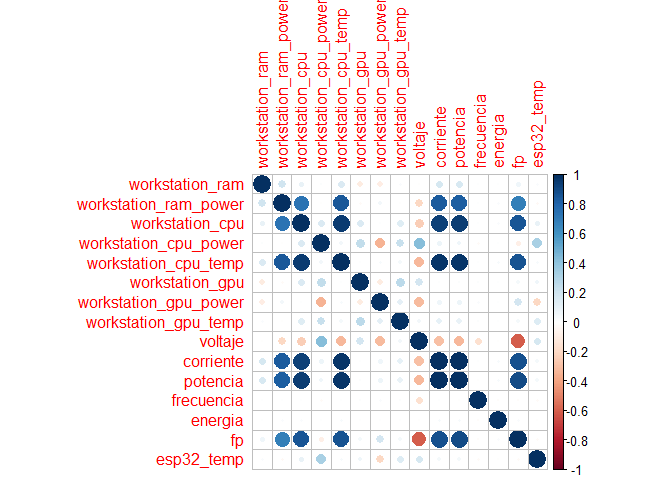
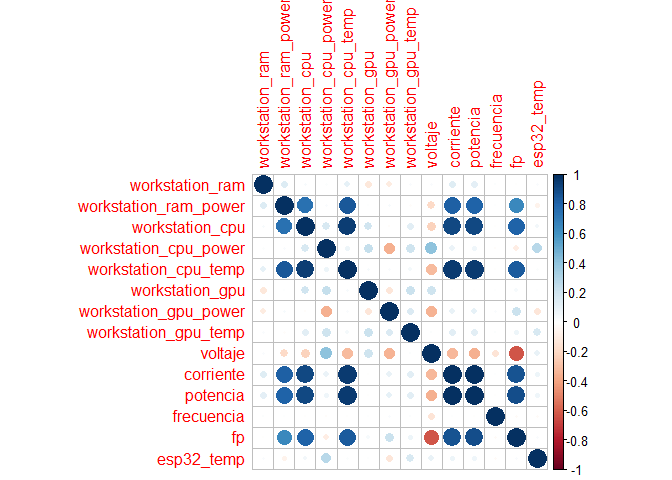
Se realizo la normalizacion , se elimino de la matriz de correlacion la energia que sera la variable dependiente a predecir

Changed region(s): [[0.0938, 0.0, 0.8125, 0.9688]]

diff --git a/Proyecto.md b/Proyecto.md
@@ -684,35 +684,37 @@ variable energía.
     ## 4           0.08944659               0             0.6557377
     ## 5           0.09781210               0             0.6448087
     ## 6           0.13899614               0             0.6557377
-    ##   workstation_gpu_temp   voltaje  corriente  potencia frecuencia energia
-    ## 1           0.10386967 0.4052632 0.07749343 0.1060575    0.60625      NA
-    ## 2           0.10694258 0.4052632 0.10262087 0.1320770    0.73750      NA
-    ## 3           0.11058503 0.3684211 0.10818186 0.1326956    0.72000      NA
-    ## 4           0.11384338 0.3807018 0.09397044 0.1202425    0.74625      NA
-    ## 5           0.11042609 0.3929825 0.10303280 0.1292318    0.68500      NA
-    ## 6           0.09772385 0.3929825 0.09870758 0.1258092    0.62375      NA
-    ##          fp esp32_temp
-    ## 1 0.3750000  0.7595292
-    ## 2 0.4062500  0.7331840
-    ## 3 0.3839286  0.6799329
-    ## 4 0.3883929  0.6804934
-    ## 5 0.3794643  0.8133409
-    ## 6 0.3928571  0.8402467
+    ##   workstation_gpu_temp   voltaje  corriente  potencia frecuencia        fp
+    ## 1           0.10386967 0.4052632 0.07749343 0.1060575    0.60625 0.3750000
+    ## 2           0.10694258 0.4052632 0.10262087 0.1320770    0.73750 0.4062500
+    ## 3           0.11058503 0.3684211 0.10818186 0.1326956    0.72000 0.3839286
+    ## 4           0.11384338 0.3807018 0.09397044 0.1202425    0.74625 0.3883929
+    ## 5           0.11042609 0.3929825 0.10303280 0.1292318    0.68500 0.3794643
+    ## 6           0.09772385 0.3929825 0.09870758 0.1258092    0.62375 0.3928571
+    ##   esp32_temp
+    ## 1  0.7595292
+    ## 2  0.7331840
+    ## 3  0.6799329
+    ## 4  0.6804934
+    ## 5  0.8133409
+    ## 6  0.8402467
 
 ### Energia ~ Frecuencia
 
     ## 
     ## Call:
-    ## lm(formula = energia ~ frecuencia, data = variables_interes_interpoladas)
+    ## lm(formula = energia ~ frecuencia, data = variables_interes_interpoladas_normalizadas)
     ## 
     ## Residuals:
     ##       Min        1Q    Median        3Q       Max 
     ## -0.002278 -0.002025 -0.001962  0.001216  0.008052 
     ## 
     ## Coefficients:
-    ##              Estimate Std. Error t value Pr(>|t|)
-    ## (Intercept)  0.127916   0.079302   1.613    0.107
-    ## frecuencia  -0.002099   0.001322  -1.588    0.112
+    ##               Estimate Std. Error t value Pr(>|t|)    
+    ## (Intercept)  0.0022783  0.0001637  13.919   <2e-16 ***
+    ## frecuencia  -0.0003999  0.0002519  -1.588    0.112    
+    ## ---
+    ## Signif. codes:  0 '***' 0.001 '**' 0.01 '*' 0.05 '.' 0.1 ' ' 1
     ## 
     ## Residual standard error: 0.002954 on 9464 degrees of freedom
     ##   (614 observations deleted due to missingness)
@@ -723,7 +725,7 @@ variable energía.
 
     ## 
     ## Call:
-    ## lm(formula = energia ~ workstation_ram, data = variables_interes_interpoladas)
+    ## lm(formula = energia ~ workstation_ram, data = variables_interes_interpoladas_normalizadas)
     ## 
     ## Residuals:
     ##       Min        1Q    Median        3Q       Max 
@@ -731,8 +733,8 @@ variable energía.
     ## 
     ## Coefficients:
     ##                  Estimate Std. Error t value Pr(>|t|)    
-    ## (Intercept)     1.791e-03  4.447e-04   4.027 5.69e-05 ***
-    ## workstation_ram 4.341e-06  8.299e-06   0.523    0.601    
+    ## (Intercept)     1.986e-03  7.683e-05  25.851   <2e-16 ***
+    ## workstation_ram 9.028e-05  1.726e-04   0.523    0.601    
     ## ---
     ## Signif. codes:  0 '***' 0.001 '**' 0.01 '*' 0.05 '.' 0.1 ' ' 1
     ## 
@@ -745,7 +747,7 @@ variable energía.
 
     ## 
     ## Call:
-    ## lm(formula = energia ~ workstation_ram_power, data = variables_interes_interpoladas)
+    ## lm(formula = energia ~ workstation_ram_power, data = variables_interes_interpoladas_normalizadas)
     ## 
     ## Residuals:
     ##       Min        1Q    Median        3Q       Max 
@@ -753,8 +755,8 @@ variable energía.
     ## 
     ## Coefficients:
     ##                        Estimate Std. Error t value Pr(>|t|)    
-    ## (Intercept)           1.511e-03  2.102e-04   7.189 7.02e-13 ***
-    ## workstation_ram_power 4.836e-05  1.965e-05   2.461   0.0139 *  
+    ## (Intercept)           1.855e-03  7.458e-05  24.876   <2e-16 ***
+    ## workstation_ram_power 4.877e-04  1.981e-04   2.461   0.0139 *  
     ## ---
     ## Signif. codes:  0 '***' 0.001 '**' 0.01 '*' 0.05 '.' 0.1 ' ' 1
     ## 
@@ -767,7 +769,7 @@ variable energía.
 
     ## 
     ## Call:
-    ## lm(formula = energia ~ workstation_cpu, data = variables_interes_interpoladas)
+    ## lm(formula = energia ~ workstation_cpu, data = variables_interes_interpoladas_normalizadas)
     ## 
     ## Residuals:
     ##       Min        1Q    Median        3Q       Max 
@@ -775,8 +777,8 @@ variable energía.
     ## 
     ## Coefficients:
     ##                  Estimate Std. Error t value Pr(>|t|)    
-    ## (Intercept)     1.685e-03  1.245e-04  13.539  < 2e-16 ***
-    ## workstation_cpu 2.860e-05  1.023e-05   2.796  0.00519 ** 
+    ## (Intercept)     1.911e-03  5.022e-05  38.051  < 2e-16 ***
+    ## workstation_cpu 5.484e-04  1.962e-04   2.796  0.00519 ** 
     ## ---
     ## Signif. codes:  0 '***' 0.001 '**' 0.01 '*' 0.05 '.' 0.1 ' ' 1
     ## 
@@ -789,16 +791,18 @@ variable energía.
 
     ## 
     ## Call:
-    ## lm(formula = energia ~ workstation_cpu_power, data = variables_interes_interpoladas)
+    ## lm(formula = energia ~ workstation_cpu_power, data = variables_interes_interpoladas_normalizadas)
     ## 
     ## Residuals:
     ##       Min        1Q    Median        3Q       Max 
     ## -0.002032 -0.002025 -0.002015  0.001193  0.007990 
     ## 
     ## Coefficients:
-    ##                         Estimate Std. Error t value Pr(>|t|)
-    ## (Intercept)           -0.0036469  0.0239722  -0.152    0.879
-    ## workstation_cpu_power  0.0001312  0.0005548   0.237    0.813
+    ##                        Estimate Std. Error t value Pr(>|t|)    
+    ## (Intercept)           2.006e-03  7.844e-05  25.571   <2e-16 ***
+    ## workstation_cpu_power 2.624e-05  1.110e-04   0.237    0.813    
+    ## ---
+    ## Signif. codes:  0 '***' 0.001 '**' 0.01 '*' 0.05 '.' 0.1 ' ' 1
     ## 
     ## Residual standard error: 0.002954 on 9464 degrees of freedom
     ##   (614 observations deleted due to missingness)
@@ -809,7 +813,7 @@ variable energía.
 
     ## 
     ## Call:
-    ## lm(formula = energia ~ workstation_cpu_temp, data = variables_interes_interpoladas)
+    ## lm(formula = energia ~ workstation_cpu_temp, data = variables_interes_interpoladas_normalizadas)
     ## 
     ## Residuals:
     ##       Min        1Q    Median        3Q       Max 
@@ -817,8 +821,8 @@ variable energía.
     ## 
     ## Coefficients:
     ##                       Estimate Std. Error t value Pr(>|t|)    
-    ## (Intercept)          1.109e-03  3.123e-04   3.552 0.000384 ***
-    ## workstation_cpu_temp 2.583e-05  8.783e-06   2.941 0.003284 ** 
+    ## (Intercept)          0.0018839  0.0000562  33.523  < 2e-16 ***
+    ## workstation_cpu_temp 0.0006689  0.0002275   2.941  0.00328 ** 
     ## ---
     ## Signif. codes:  0 '***' 0.001 '**' 0.01 '*' 0.05 '.' 0.1 ' ' 1
     ## 
@@ -831,7 +835,7 @@ variable energía.
 
     ## 
     ## Call:
-    ## lm(formula = energia ~ workstation_gpu, data = variables_interes_interpoladas)
+    ## lm(formula = energia ~ workstation_gpu, data = variables_interes_interpoladas_normalizadas)
     ## 
     ## Residuals:
     ##       Min        1Q    Median        3Q       Max 
@@ -840,7 +844,7 @@ variable energía.
     ## Coefficients:
     ##                  Estimate Std. Error t value Pr(>|t|)    
     ## (Intercept)     2.021e-03  3.239e-05  62.396   <2e-16 ***
-    ## workstation_gpu 3.519e-06  2.371e-05   0.148    0.882    
+    ## workstation_gpu 7.354e-05  4.956e-04   0.148    0.882    
     ## ---
     ## Signif. codes:  0 '***' 0.001 '**' 0.01 '*' 0.05 '.' 0.1 ' ' 1
     ## 
@@ -853,16 +857,18 @@ variable energía.
 
     ## 
     ## Call:
-    ## lm(formula = energia ~ workstation_gpu_power, data = variables_interes_interpoladas)
+    ## lm(formula = energia ~ workstation_gpu_power, data = variables_interes_interpoladas_normalizadas)
     ## 
     ## Residuals:
     ##       Min        1Q    Median        3Q       Max 
     ## -0.002041 -0.002027 -0.002015  0.001187  0.007990 
     ## 
     ## Coefficients:
-    ##                        Estimate Std. Error t value Pr(>|t|)
-    ## (Intercept)           1.582e-03  2.452e-03   0.645    0.519
-    ## workstation_gpu_power 1.239e-05  6.885e-05   0.180    0.857
+    ##                        Estimate Std. Error t value Pr(>|t|)    
+    ## (Intercept)           0.0020030  0.0001150   17.41   <2e-16 ***
+    ## workstation_gpu_power 0.0000378  0.0002100    0.18    0.857    
+    ## ---
+    ## Signif. codes:  0 '***' 0.001 '**' 0.01 '*' 0.05 '.' 0.1 ' ' 1
     ## 
     ## Residual standard error: 0.002954 on 9464 degrees of freedom
     ##   (614 observations deleted due to missingness)
@@ -873,16 +879,18 @@ variable energía.
 
     ## 
     ## Call:
-    ## lm(formula = energia ~ workstation_gpu_temp, data = variables_interes_interpoladas)
+    ## lm(formula = energia ~ workstation_gpu_temp, data = variables_interes_interpoladas_normalizadas)
     ## 
     ## Residuals:
     ##       Min        1Q    Median        3Q       Max 
     ## -0.002093 -0.002023 -0.002021  0.001187  0.007984 
     ## 
     ## Coefficients:
-    ##                       Estimate Std. Error t value Pr(>|t|)
-    ## (Intercept)          1.934e-03  1.271e-03   1.522    0.128
-    ## workstation_gpu_temp 6.151e-06  8.760e-05   0.070    0.944
+    ##                       Estimate Std. Error t value Pr(>|t|)    
+    ## (Intercept)          0.0020160  0.0001036   19.46   <2e-16 ***
+    ## workstation_gpu_temp 0.0000774  0.0011023    0.07    0.944    
+    ## ---
+    ## Signif. codes:  0 '***' 0.001 '**' 0.01 '*' 0.05 '.' 0.1 ' ' 1
     ## 
     ## Residual standard error: 0.002954 on 9464 degrees of freedom
     ##   (614 observations deleted due to missingness)
@@ -893,16 +901,18 @@ variable energía.
 
     ## 
     ## Call:
-    ## lm(formula = energia ~ voltaje, data = variables_interes_interpoladas)
+    ## lm(formula = energia ~ voltaje, data = variables_interes_interpoladas_normalizadas)
     ## 
     ## Residuals:
     ##       Min        1Q    Median        3Q       Max 
     ## -0.002065 -0.002028 -0.001992  0.001190  0.008032 
     ## 
     ## Coefficients:
-    ##               Estimate Std. Error t value Pr(>|t|)
-    ## (Intercept)  0.0458521  0.0830848   0.552    0.581
-    ## voltaje     -0.0003670  0.0006958  -0.528    0.598
+    ##               Estimate Std. Error t value Pr(>|t|)    
+    ## (Intercept)  2.066e-03  8.688e-05  23.780   <2e-16 ***
+    ## voltaje     -9.962e-05  1.889e-04  -0.528    0.598    
+    ## ---
+    ## Signif. codes:  0 '***' 0.001 '**' 0.01 '*' 0.05 '.' 0.1 ' ' 1
     ## 
     ## Residual standard error: 0.002954 on 9464 degrees of freedom
     ##   (614 observations deleted due to missingness)
@@ -913,16 +923,16 @@ variable energía.
 
     ## 
     ## Call:
-    ## lm(formula = energia ~ corriente, data = variables_interes_interpoladas)
+    ## lm(formula = energia ~ corriente, data = variables_interes_interpoladas_normalizadas)
     ## 
     ## Residuals:
     ##       Min        1Q    Median        3Q       Max 
     ## -0.002585 -0.001985 -0.001967  0.001192  0.008050 
     ## 
     ## Coefficients:
-    ##               Estimate Std. Error t value Pr(>|t|)   
-    ## (Intercept) -0.0003126  0.0007185  -0.435  0.66352   
-    ## corriente    0.0021065  0.0006474   3.254  0.00114 **
+    ##              Estimate Std. Error t value Pr(>|t|)    
+    ## (Intercept) 1.903e-03  4.763e-05  39.960  < 2e-16 ***
+    ## corriente   6.818e-04  2.096e-04   3.254  0.00114 ** 
     ## ---
     ## Signif. codes:  0 '***' 0.001 '**' 0.01 '*' 0.05 '.' 0.1 ' ' 1
     ## 
@@ -935,16 +945,16 @@ variable energía.
 
     ## 
     ## Call:
-    ## lm(formula = energia ~ potencia, data = variables_interes_interpoladas)
+    ## lm(formula = energia ~ potencia, data = variables_interes_interpoladas_normalizadas)
     ## 
     ## Residuals:
     ##       Min        1Q    Median        3Q       Max 
     ## -0.002586 -0.001984 -0.001968  0.001191  0.008042 
     ## 
     ## Coefficients:
-    ##               Estimate Std. Error t value Pr(>|t|)   
-    ## (Intercept) -8.209e-05  6.477e-04  -0.127  0.89914   
-    ## potencia     1.735e-05  5.334e-06   3.254  0.00114 **
+    ##              Estimate Std. Error t value Pr(>|t|)    
+    ## (Intercept) 1.884e-03  5.233e-05  36.007  < 2e-16 ***
+    ## potencia    7.015e-04  2.156e-04   3.254  0.00114 ** 
     ## ---
     ## Signif. codes:  0 '***' 0.001 '**' 0.01 '*' 0.05 '.' 0.1 ' ' 1
     ## 
@@ -957,16 +967,16 @@ variable energía.
 
     ## 
     ## Call:
-    ## lm(formula = energia ~ fp, data = variables_interes_interpoladas)
+    ## lm(formula = energia ~ fp, data = variables_interes_interpoladas_normalizadas)
     ## 
     ## Residuals:
     ##       Min        1Q    Median        3Q       Max 
     ## -0.002417 -0.002006 -0.001929  0.001188  0.008145 
     ## 
     ## Coefficients:
-    ##              Estimate Std. Error t value Pr(>|t|)   
-    ## (Intercept) -0.014939   0.006097  -2.450  0.01429 * 
-    ## fp           0.018523   0.006657   2.782  0.00541 **
+    ##              Estimate Std. Error t value Pr(>|t|)    
+    ## (Intercept) 0.0017316  0.0001090  15.883  < 2e-16 ***
+    ## fp          0.0006915  0.0002485   2.782  0.00541 ** 
     ## ---
     ## Signif. codes:  0 '***' 0.001 '**' 0.01 '*' 0.05 '.' 0.1 ' ' 1
     ## 
@@ -979,7 +989,7 @@ variable energía.
 
     ## 
     ## Call:
-    ## lm(formula = energia ~ esp32_temp, data = variables_interes_interpoladas)
+    ## lm(formula = energia ~ esp32_temp, data = variables_interes_interpoladas_normalizadas)
     ## 
     ## Residuals:
     ##       Min        1Q    Median        3Q       Max 
@@ -987,8 +997,8 @@ variable energía.
     ## 
     ## Coefficients:
     ##               Estimate Std. Error t value Pr(>|t|)    
-    ## (Intercept)  2.729e-03  8.164e-04   3.342 0.000834 ***
-    ## esp32_temp  -1.419e-05  1.640e-05  -0.865 0.386984    
+    ## (Intercept)  0.0022065  0.0002144  10.292   <2e-16 ***
+    ## esp32_temp  -0.0002343  0.0002709  -0.865    0.387    
     ## ---
     ## Signif. codes:  0 '***' 0.001 '**' 0.01 '*' 0.05 '.' 0.1 ' ' 1
     ## 
